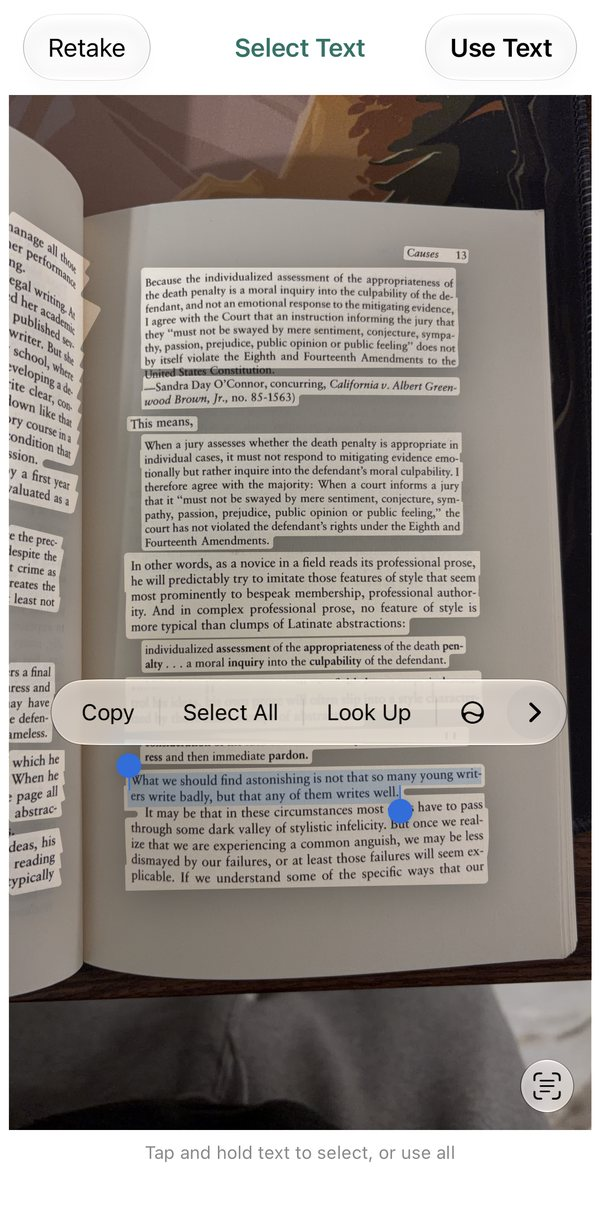
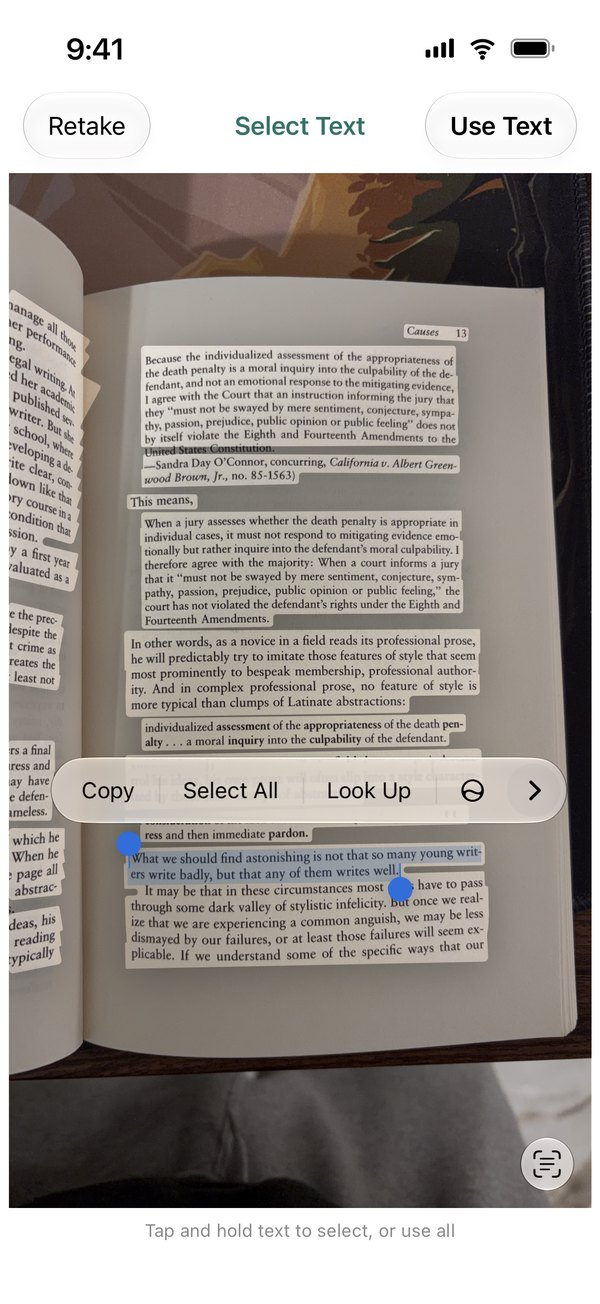
feat: show InkLeaf screenshots in iPhone frames
Wrap each real-device screenshot in a CSS iPhone frame with a clean
9:41 status bar. Add the lock-in, annotation, shuffle and leaves
screens, show three phones across for the add and find sections
(a swipe row on small screens), and drop the beige mockup and the
mostly empty save step.

diff --git a/inkleaf/index.html b/inkleaf/index.html
@@ -79,12 +79,34 @@
 		}
 		.block p { max-width: var(--measure); margin: 0 0 1rem; }
 		.block img { display: block; width: 100%; height: auto; border-radius: 1.25rem; }
-		.block img.tall { max-width: 22rem; }
 
 		.shots { display: flex; gap: 1.25rem; align-items: flex-start; }
 		.shots figure { flex: 1 1 0; min-width: 0; margin: 0; }
-		.shots img { border-radius: 1.5rem; }
+		.shots img { border-radius: 1.5rem; border: 1px solid var(--line); }
 		.shots figcaption { margin-top: 0.6rem; font-size: 0.9rem; color: var(--muted); line-height: 1.4; }
+		.shots.three { overflow-x: auto; scroll-snap-type: x mandatory; padding-bottom: 1.25rem; margin-right: -1.25rem; }
+		.shots.three figure { flex: 0 0 62%; scroll-snap-align: start; }
+
+		/* iPhone frame around a screenshot with a 9:41 status bar already painted in */
+		.phone {
+			position: relative;
+			padding: 3.2%;
+			background: #0d0d0f;
+			border-radius: 16% / 7.2%;
+			box-shadow: 0 0 0 1.5px #55565b, 0 0 0 3px #1a1a1c, 0 0.9rem 1.6rem -0.4rem rgba(0, 0, 0, 0.28);
+		}
+		.phone img { display: block; width: 100%; height: auto; border: 0; border-radius: 14% / 6.5%; }
+		.phone::after {
+			content: "";
+			position: absolute;
+			top: 2%;
+			left: 50%;
+			width: 27%;
+			height: 3.4%;
+			transform: translateX(-50%);
+			background: #000;
+			border-radius: 999px;
+		}
 
 		/* Footer */
 		footer { color: var(--muted); font-size: 0.95rem; }
@@ -95,6 +117,9 @@
 			.page { padding: 0 2.5rem; }
 			.hero { padding-top: 7rem; }
 			.block { grid-template-columns: minmax(0, 1fr) minmax(0, 1fr); gap: 4rem; align-items: start; }
+			.block.wide { grid-template-columns: minmax(0, 5fr) minmax(0, 7fr); }
+			.shots.three { overflow: visible; padding-bottom: 0; margin-right: 0; }
+			.shots.three figure { flex: 1 1 0; }
 		}
 	</style>
 </head>
@@ -108,20 +133,24 @@
 			<img class="hero-img" src="images/pic02.jpg" width="1600" height="1200" alt="InkLeaf on iPhone: the Browse tab, a list of tags and Stats &amp; Insights">
 		</header>
 
-		<section class="block" aria-labelledby="add">
+		<section class="block wide" aria-labelledby="add">
 			<div>
 				<h2 id="add">Add quotes</h2>
 				<p>Take a photo of a printed page, select the text you want, and InkLeaf saves it as an entry.</p>
 				<p>Lock in a book and its author and title are used for every entry from it. Add a note to an entry when you want to remember the context.</p>
 			</div>
-			<div class="shots">
+			<div class="shots three">
 				<figure>
-					<img src="images/scan-select.jpg" width="600" height="1226" loading="lazy" alt="The Select Text screen, with the text on the page highlighted and one passage selected">
-					<figcaption>Scan a page and select the text you want.</figcaption>
+					<div class="phone"><img src="images/scan-select.jpg" width="600" height="1304" loading="lazy" alt="The Select Text screen, with the text on a scanned page highlighted and one passage selected"></div>
+					<figcaption>Scan a page and select the text.</figcaption>
 				</figure>
 				<figure>
-					<img src="images/scan-save.jpg" width="600" height="563" loading="lazy" alt="The new entry's Citation step, with the scanned passage filled in">
-					<figcaption>Save it as an entry.</figcaption>
+					<div class="phone"><img src="images/lock-in.jpg" width="600" height="1304" loading="lazy" alt="The lock-in sheet, listing recent books with a Slide to lock in control"></div>
+					<figcaption>Lock in a book.</figcaption>
+				</figure>
+				<figure>
+					<div class="phone"><img src="images/note.jpg" width="600" height="1304" loading="lazy" alt="The Annotation step of a new entry, with a note field and a set of tags"></div>
+					<figcaption>Add a note and tags.</figcaption>
 				</figure>
 			</div>
 		</section>
@@ -133,23 +162,36 @@
 			</div>
 			<div class="shots">
 				<figure>
-					<img src="images/tags.jpg" width="640" height="1309" loading="lazy" alt="The Browse tab's tag list, with a banner saying 127 quotes need tags and a Start button">
+					<div class="phone"><img src="images/tags.jpg" width="600" height="1305" loading="lazy" alt="The Browse tab's tag list, with a banner saying 127 quotes need tags and a Start button"></div>
 					<figcaption>See what still needs tags.</figcaption>
 				</figure>
 				<figure>
-					<img src="images/wizard.jpg" width="640" height="1275" loading="lazy" alt="The Tag Wizard: a quote with its author and book, a field to add a tag and a set of existing tags">
+					<div class="phone"><img src="images/wizard.jpg" width="600" height="1305" loading="lazy" alt="The Tag Wizard: a quote with its author and book, a field to add a tag and a set of existing tags"></div>
 					<figcaption>Tag them one at a time.</figcaption>
 				</figure>
 			</div>
 		</section>
 
-		<section class="block" aria-labelledby="find">
+		<section class="block wide" aria-labelledby="find">
 			<div>
 				<h2 id="find">Find them again</h2>
 				<p>Search by author, source, tag, entries with notes, or favorites. Group entries into collections.</p>
 				<p>Shuffle to flip through your entries as cards. Everything syncs through iCloud.</p>
 			</div>
-			<img class="tall" src="images/pic01.jpg" width="720" height="1100" loading="lazy" alt="InkLeaf on iPhone: a list of saved quotes with their authors and book titles">
+			<div class="shots three">
+				<figure>
+					<div class="phone"><img src="images/browse.jpg" width="600" height="1304" loading="lazy" alt="The Browse tab: counts of leaves, authors, sources, tags, notes and favorites, with Stats &amp; Insights, Collections, Vocabulary and Shuffle Deck below"></div>
+					<figcaption>Browse by author, source or tag.</figcaption>
+				</figure>
+				<figure>
+					<div class="phone"><img src="images/shuffle.jpg" width="600" height="1304" loading="lazy" alt="The Shuffle Deck: a quote card with its author and book, one of 294"></div>
+					<figcaption>Shuffle through your entries.</figcaption>
+				</figure>
+				<figure>
+					<div class="phone"><img src="images/leaves.jpg" width="600" height="1304" loading="lazy" alt="The Leaves tab: a list of saved quotes with their authors and book titles"></div>
+					<figcaption>Everything you've saved.</figcaption>
+				</figure>
+			</div>
 		</section>
 
 	</main>
